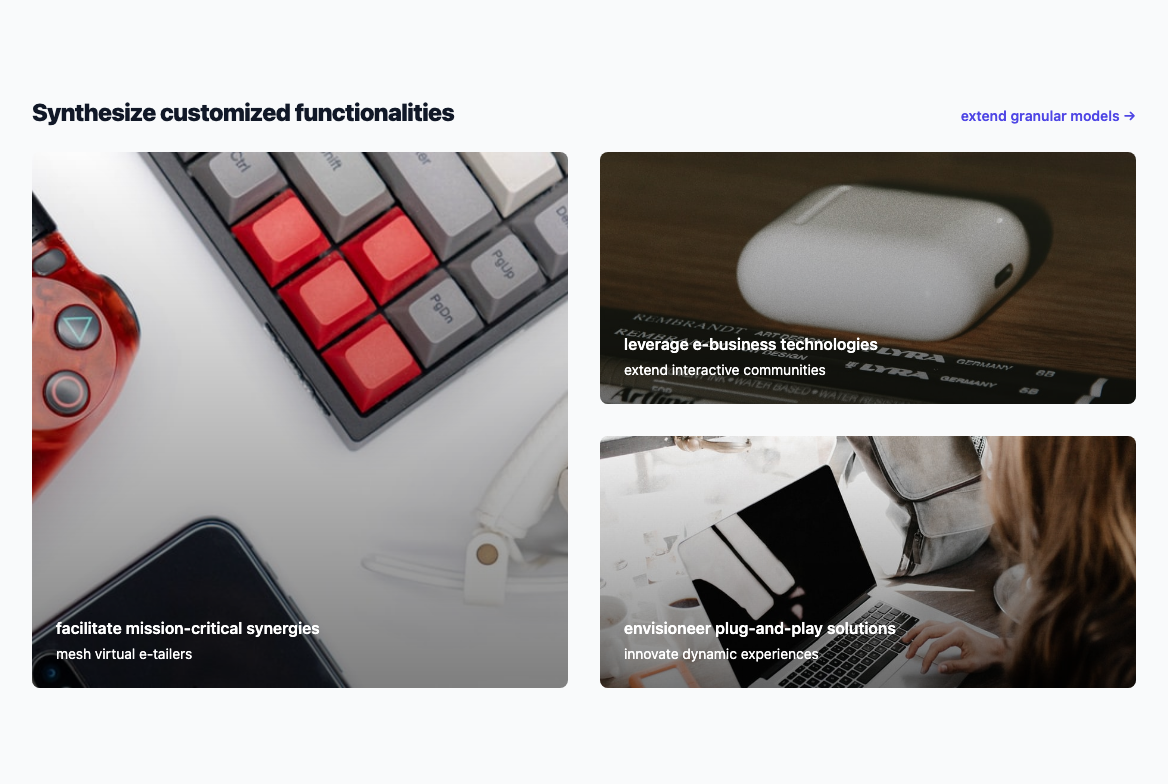
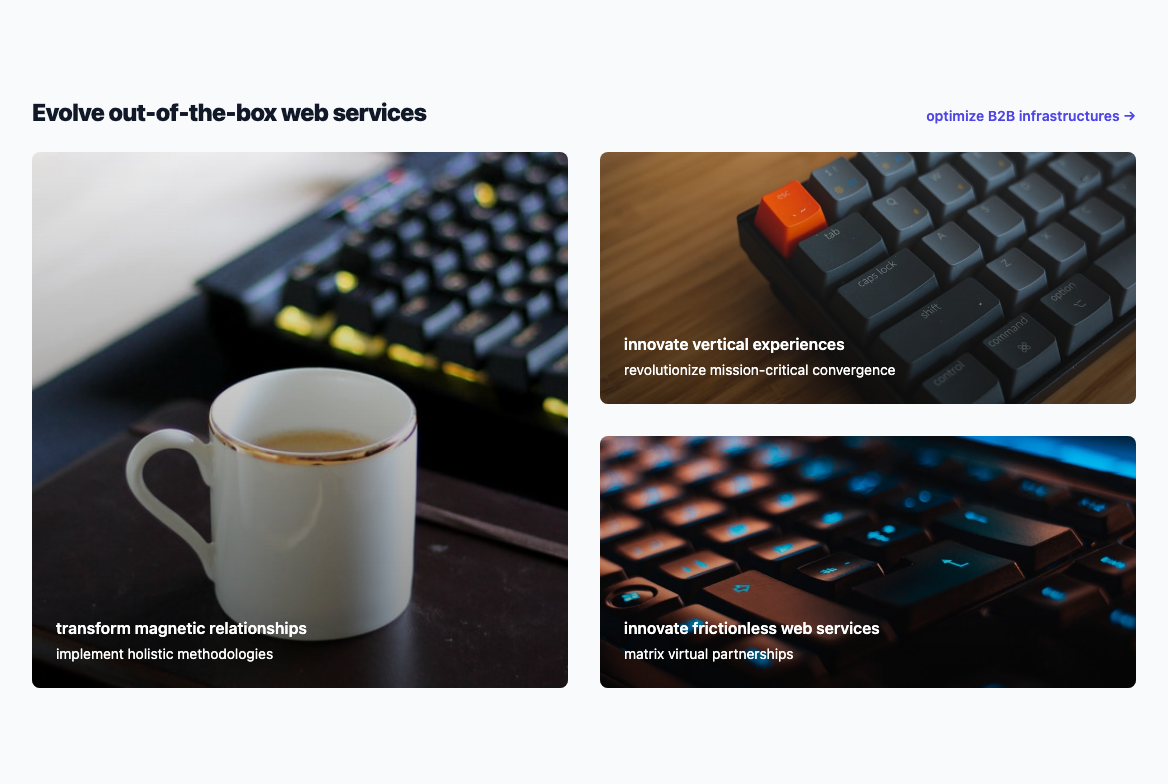
preview tests

diff --git a/.slicemachine/assets/slices/PromoSectionImageTiles/index.stories.js b/.slicemachine/assets/slices/PromoSectionImageTiles/index.stories.js
@@ -5,5 +5,5 @@ export default {
 }
 
 
-export const _DefaultSlice = () => <MyComponent slice={{"variation":"default-slice","name":"Default slice","slice_type":"promo_section_image_tiles","items":[],"primary":{"title":"transition best-of-breed supply-chains","subtitle":"repurpose turn-key relationships","image1":{"dimensions":{"width":900,"height":500},"alt":"Placeholder image","copyright":null,"url":"https://images.unsplash.com/photo-1601933973783-43cf8a7d4c5f?w=900&h=500&fit=crop"},"image2":{"dimensions":{"width":900,"height":500},"alt":"Placeholder image","copyright":null,"url":"https://images.unsplash.com/photo-1579931794097-0ad001e51edb?w=900&h=500&fit=crop"},"image3":{"dimensions":{"width":900,"height":500},"alt":"Placeholder image","copyright":null,"url":"https://images.unsplash.com/photo-1600861194802-a2b11076bc51?w=900&h=500&fit=crop"},"image4":{"dimensions":{"width":900,"height":500},"alt":"Placeholder image","copyright":null,"url":"https://images.unsplash.com/photo-1593642633279-1796119d5482?w=900&h=500&fit=crop"},"image5":{"dimensions":{"width":900,"height":500},"alt":"Placeholder image","copyright":null,"url":"https://images.unsplash.com/photo-1547394765-185e1e68f34e?w=900&h=500&fit=crop"},"image6":{"dimensions":{"width":900,"height":500},"alt":"Placeholder image","copyright":null,"url":"https://images.unsplash.com/photo-1486312338219-ce68d2c6f44d?w=900&h=500&fit=crop"},"image7":{"dimensions":{"width":900,"height":500},"alt":"Placeholder image","copyright":null,"url":"https://images.unsplash.com/photo-1551739440-5dd934d3a94a?w=900&h=500&fit=crop"},"link":{"link_type":"Web","url":"https://slicemachine.dev"},"linkLabel":"deliver scalable ROI","personalisationid":"innovate bleeding-edge content"},"id":"_DefaultSlice"}} />
+export const _DefaultSlice = () => <MyComponent slice={{"variation":"default-slice","name":"Default slice","slice_type":"promo_section_image_tiles","items":[],"primary":{"title":"seize world-class systems","subtitle":"deploy best-of-breed networks","image1":{"dimensions":{"width":900,"height":500},"alt":"Placeholder image","copyright":null,"url":"https://images.unsplash.com/photo-1589652717521-10c0d092dea9?w=900&h=500&fit=crop"},"image2":{"dimensions":{"width":900,"height":500},"alt":"Placeholder image","copyright":null,"url":"https://images.unsplash.com/photo-1589321599763-d66926c29613?w=900&h=500&fit=crop"},"image3":{"dimensions":{"width":900,"height":500},"alt":"Placeholder image","copyright":null,"url":"https://images.unsplash.com/photo-1571126770897-2d612d1f7b89?w=900&h=500&fit=crop"},"image4":{"dimensions":{"width":900,"height":500},"alt":"Placeholder image","copyright":null,"url":"https://images.unsplash.com/photo-1491975474562-1f4e30bc9468?w=900&h=500&fit=crop"},"image5":{"dimensions":{"width":900,"height":500},"alt":"Placeholder image","copyright":null,"url":"https://images.unsplash.com/photo-1587653915936-5623ea0b949a?w=900&h=500&fit=crop"},"image6":{"dimensions":{"width":900,"height":500},"alt":"Placeholder image","copyright":null,"url":"https://images.unsplash.com/photo-1589652717521-10c0d092dea9?w=900&h=500&fit=crop"},"image7":{"dimensions":{"width":900,"height":500},"alt":"Placeholder image","copyright":null,"url":"https://images.unsplash.com/photo-1551739440-5dd934d3a94a?w=900&h=500&fit=crop"},"link":{"link_type":"Web","url":"https://prismic.io"},"linkLabel":"aggregate cross-platform deliverables","personalisationid":"utilize sticky functionalities"},"id":"_DefaultSlice"}} />
 _DefaultSlice.storyName = 'Default slice'

diff --git a/.slicemachine/assets/slices/PromoSectionFullWidthWithOverlappingImageTiles/index.stories.js b/.slicemachine/assets/slices/PromoSectionFullWidthWithOverlappingImageTiles/index.stories.js
@@ -5,5 +5,5 @@ export default {
 }
 
 
-export const _DefaultSlice = () => <MyComponent slice={{"variation":"default-slice","name":"Default slice","slice_type":"promo_section_full_width_with_overlapping_image_tiles","items":[],"primary":{"title1":[{"type":"heading1","text":"Grow real-time web services","spans":[]}],"title2":[{"type":"heading1","text":"Unleash open-source bandwidth","spans":[]}],"image1":{"dimensions":{"width":900,"height":500},"alt":"Placeholder image","copyright":null,"url":"https://images.unsplash.com/photo-1593642633279-1796119d5482?w=900&h=500&fit=crop"},"image2":{"dimensions":{"width":900,"height":500},"alt":"Placeholder image","copyright":null,"url":"https://images.unsplash.com/photo-1525547719571-a2d4ac8945e2?w=900&h=500&fit=crop"},"image3":{"dimensions":{"width":900,"height":500},"alt":"Placeholder image","copyright":null,"url":"https://images.unsplash.com/photo-1586952518485-11b180e92764?w=900&h=500&fit=crop"},"image4":{"dimensions":{"width":900,"height":500},"alt":"Placeholder image","copyright":null,"url":"https://images.unsplash.com/photo-1493119508027-2b584f234d6c?w=900&h=500&fit=crop"},"image5":{"dimensions":{"width":900,"height":500},"alt":"Placeholder image","copyright":null,"url":"https://images.unsplash.com/photo-1587653915936-5623ea0b949a?w=900&h=500&fit=crop"},"image6":{"dimensions":{"width":900,"height":500},"alt":"Placeholder image","copyright":null,"url":"https://images.unsplash.com/photo-1471897488648-5eae4ac6686b?w=900&h=500&fit=crop"},"ctaLink":{"link_type":"Web","url":"http://google.com"},"linkLabel":"repurpose magnetic systems"},"id":"_DefaultSlice"}} />
+export const _DefaultSlice = () => <MyComponent slice={{"variation":"default-slice","name":"Default slice","slice_type":"promo_section_full_width_with_overlapping_image_tiles","items":[],"primary":{"title1":[{"type":"heading1","text":"Optimize transparent bandwidth","spans":[]}],"title2":[{"type":"heading1","text":"Visualize e-business blockchains","spans":[]}],"image1":{"dimensions":{"width":900,"height":500},"alt":"Placeholder image","copyright":null,"url":"https://images.unsplash.com/photo-1589321599763-d66926c29613?w=900&h=500&fit=crop"},"image2":{"dimensions":{"width":900,"height":500},"alt":"Placeholder image","copyright":null,"url":"https://images.unsplash.com/photo-1587614295999-6c1c13675117?w=900&h=500&fit=crop"},"image3":{"dimensions":{"width":900,"height":500},"alt":"Placeholder image","copyright":null,"url":"https://images.unsplash.com/photo-1587653915936-5623ea0b949a?w=900&h=500&fit=crop"},"image4":{"dimensions":{"width":900,"height":500},"alt":"Placeholder image","copyright":null,"url":"https://images.unsplash.com/photo-1571126770897-2d612d1f7b89?w=900&h=500&fit=crop"},"image5":{"dimensions":{"width":900,"height":500},"alt":"Placeholder image","copyright":null,"url":"https://images.unsplash.com/photo-1498050108023-c5249f4df085?w=900&h=500&fit=crop"},"image6":{"dimensions":{"width":900,"height":500},"alt":"Placeholder image","copyright":null,"url":"https://images.unsplash.com/photo-1589321578146-4c1ba445cc88?w=900&h=500&fit=crop"},"ctaLink":{"link_type":"Web","url":"http://twitter.com"},"linkLabel":"leverage transparent e-commerce"},"id":"_DefaultSlice"}} />
 _DefaultSlice.storyName = 'Default slice'

diff --git a/.slicemachine/assets/slices/ProductListWithCta/index.stories.js b/.slicemachine/assets/slices/ProductListWithCta/index.stories.js
@@ -5,8 +5,8 @@ export default {
 }
 
 
-export const _DefaultSlice = () => <MyComponent slice={{"variation":"default-slice","name":"Default slice","slice_type":"product_list_with_cta","items":[{"productLink":{"link_type":"Web","url":"http://twitter.com"}},{"productLink":{"link_type":"Web","url":"http://google.com"}},{"productLink":{"link_type":"Web","url":"https://slicemachine.dev"}}],"primary":{"title":[{"type":"heading1","text":"Harness intuitive supply-chains","spans":[]}],"description":[{"type":"paragraph","text":"Id nulla ullamco eiusmod et et.","spans":[]}]},"id":"_DefaultSlice"}} />
+export const _DefaultSlice = () => <MyComponent slice={{"variation":"default-slice","name":"Default slice","slice_type":"product_list_with_cta","items":[{"productLink":{"link_type":"Web","url":"https://prismic.io"}},{"productLink":{"link_type":"Web","url":"http://google.com"}},{"productLink":{"link_type":"Web","url":"https://slicemachine.dev"}},{"productLink":{"link_type":"Web","url":"https://slicemachine.dev"}},{"productLink":{"link_type":"Web","url":"http://twitter.com"}}],"primary":{"title":[{"type":"heading1","text":"Morph bleeding-edge paradigms","spans":[]}],"description":[{"type":"paragraph","text":"Commodo eu fugiat ipsum occaecat eiusmod.","spans":[]}]},"id":"_DefaultSlice"}} />
 _DefaultSlice.storyName = 'Default slice'
 
-export const _CustomProducts = () => <MyComponent slice={{"variation":"customProducts","name":"Custom Products","slice_type":"product_list_with_cta","items":[{"productLink":{"link_type":"Web","url":"http://google.com"}},{"productLink":{"link_type":"Web","url":"http://google.com"}},{"productLink":{"link_type":"Web","url":"http://twitter.com"}},{"productLink":{"link_type":"Web","url":"http://twitter.com"}},{"productLink":{"link_type":"Web","url":"http://twitter.com"}}],"primary":{"title":[{"type":"heading1","text":"Repurpose frictionless content","spans":[]}],"description":[{"type":"paragraph","text":"Aliquip reprehenderit aute adipisicing velit mollit incididunt et excepteur exercitation ea aute.","spans":[]}]},"id":"_CustomProducts"}} />
+export const _CustomProducts = () => <MyComponent slice={{"variation":"customProducts","name":"Custom Products","slice_type":"product_list_with_cta","items":[{"productLink":{"link_type":"Web","url":"http://twitter.com"}},{"productLink":{"link_type":"Web","url":"http://google.com"}}],"primary":{"title":[{"type":"heading1","text":"Maximize dot-com interfaces","spans":[]}],"description":[{"type":"paragraph","text":"In officia reprehenderit do sunt occaecat anim nostrud commodo irure labore et sunt.","spans":[]}]},"id":"_CustomProducts"}} />
 _CustomProducts.storyName = 'Custom Products'

diff --git a/.slicemachine/assets/slices/CategoryPreviewWithImageBackgrounds/index.stories.js b/.slicemachine/assets/slices/CategoryPreviewWithImageBackgrounds/index.stories.js
@@ -5,5 +5,5 @@ export default {
 }
 
 
-export const _DefaultSlice = () => <MyComponent slice={{"variation":"default-slice","name":"Default slice","slice_type":"category_preview_with_image_backgrounds","items":[],"primary":{"title":[{"type":"heading1","text":"Synthesize customized functionalities","spans":[]}],"linkLabel":"extend granular models","link":{"link_type":"Web","url":"https://slicemachine.dev"},"imageLeft":{"dimensions":{"width":900,"height":500},"alt":"Placeholder image","copyright":null,"url":"https://images.unsplash.com/photo-1587653915936-5623ea0b949a?w=900&h=500&fit=crop"},"imageLeftTitle":"facilitate mission-critical synergies","imageLeftCta":"mesh virtual e-tailers","imageTopRight":{"dimensions":{"width":900,"height":500},"alt":"Placeholder image","copyright":null,"url":"https://images.unsplash.com/photo-1589321578146-4c1ba445cc88?w=900&h=500&fit=crop"},"imageTopRightTitle":"leverage e-business technologies","imageTopRightCta":"extend interactive communities","imageBottomRight":{"dimensions":{"width":900,"height":500},"alt":"Placeholder image","copyright":null,"url":"https://images.unsplash.com/photo-1491975474562-1f4e30bc9468?w=900&h=500&fit=crop"},"imageBottomRightTitle":"envisioneer plug-and-play solutions","imageBottomRightCta":"innovate dynamic experiences"},"id":"_DefaultSlice"}} />
+export const _DefaultSlice = () => <MyComponent slice={{"variation":"default-slice","name":"Default slice","slice_type":"category_preview_with_image_backgrounds","items":[],"primary":{"title":[{"type":"heading1","text":"Evolve out-of-the-box web services","spans":[]}],"linkLabel":"optimize B2B infrastructures","link":{"link_type":"Web","url":"https://slicemachine.dev"},"imageLeft":{"dimensions":{"width":900,"height":500},"alt":"Placeholder image","copyright":null,"url":"https://images.unsplash.com/photo-1571126770897-2d612d1f7b89?w=900&h=500&fit=crop"},"imageLeftTitle":"transform magnetic relationships","imageLeftCta":"implement holistic methodologies","imageTopRight":{"dimensions":{"width":900,"height":500},"alt":"Placeholder image","copyright":null,"url":"https://images.unsplash.com/photo-1600861194802-a2b11076bc51?w=900&h=500&fit=crop"},"imageTopRightTitle":"innovate vertical experiences","imageTopRightCta":"revolutionize mission-critical convergence","imageBottomRight":{"dimensions":{"width":900,"height":500},"alt":"Placeholder image","copyright":null,"url":"https://images.unsplash.com/photo-1547394765-185e1e68f34e?w=900&h=500&fit=crop"},"imageBottomRightTitle":"innovate frictionless web services","imageBottomRightCta":"matrix virtual partnerships"},"id":"_DefaultSlice"}} />
 _DefaultSlice.storyName = 'Default slice'

diff --git a/.slicemachine/assets/slices/PromoSectionFadingBackgroundTestimonials/index.stories.js b/.slicemachine/assets/slices/PromoSectionFadingBackgroundTestimonials/index.stories.js
@@ -5,5 +5,5 @@ export default {
 }
 
 
-export const _DefaultSlice = () => <MyComponent slice={{"variation":"default-slice","name":"Default slice","slice_type":"promo_section_fading_background_testimonials","items":[{"quote":"disintermediate enterprise channels","attribution":"visualize synergistic channels"},{"quote":"deploy innovative web-readiness","attribution":"strategize sexy partnerships"},{"quote":"brand web-enabled metrics","attribution":"engage value-added blockchains"}],"primary":{"title":[{"type":"heading1","text":"Productize mission-critical web services","spans":[]}],"description":[{"type":"paragraph","text":"Irure enim adipisicing cillum eiusmod ut sunt fugiat commodo. Magna in aliqua ad dolor dolore consequat ullamco consectetur sunt ad sunt anim ut aliquip sunt. Pariatur labore ut ipsum excepteur labore irure ex veniam excepteur tempor Lorem aliqua aliqua mollit.","spans":[]}],"cta":"extend holistic action-items","quotesTitle":"visualize cross-media markets","image":{"dimensions":{"width":900,"height":500},"alt":"Placeholder image","copyright":null,"url":"https://images.unsplash.com/photo-1560457079-9a6532ccb118?w=900&h=500&fit=crop"}},"id":"_DefaultSlice"}} />
+export const _DefaultSlice = () => <MyComponent slice={{"variation":"default-slice","name":"Default slice","slice_type":"promo_section_fading_background_testimonials","items":[{"quote":"morph collaborative mindshare","attribution":"architect strategic synergies"},{"quote":"extend enterprise solutions","attribution":"evolve out-of-the-box mindshare"}],"primary":{"title":[{"type":"heading1","text":"Grow mission-critical infomediaries","spans":[]}],"description":[{"type":"paragraph","text":"Proident ut amet ea nisi tempor quis eu est velit et consectetur irure laborum consequat. Ad nisi aute eiusmod nulla sunt sint irure velit culpa.","spans":[]}],"cta":"drive scalable vortals","quotesTitle":"maximize plug-and-play paradigms","image":{"dimensions":{"width":900,"height":500},"alt":"Placeholder image","copyright":null,"url":"https://images.unsplash.com/photo-1587614295999-6c1c13675117?w=900&h=500&fit=crop"}},"id":"_DefaultSlice"}} />
 _DefaultSlice.storyName = 'Default slice'

diff --git a/.slicemachine/assets/slices/PromoSectionWithBackgroundImage/index.stories.js b/.slicemachine/assets/slices/PromoSectionWithBackgroundImage/index.stories.js
@@ -5,5 +5,5 @@ export default {
 }
 
 
-export const _DefaultSlice = () => <MyComponent slice={{"variation":"default-slice","name":"Default slice","slice_type":"promo_section_with_background_image","items":[],"primary":{"title":[{"type":"heading1","text":"Benchmark world-class applications","spans":[]}],"description":[{"type":"paragraph","text":"Magna Lorem excepteur proident sunt magna nostrud.","spans":[]}],"image":{"dimensions":{"width":900,"height":500},"alt":"Placeholder image","copyright":null,"url":"https://images.unsplash.com/photo-1591012911207-0dbac31f37da?w=900&h=500&fit=crop"},"link":{"link_type":"Web","url":"https://slicemachine.dev"},"linkLabel":"synthesize robust supply-chains"},"id":"_DefaultSlice"}} />
+export const _DefaultSlice = () => <MyComponent slice={{"variation":"default-slice","name":"Default slice","slice_type":"promo_section_with_background_image","items":[],"primary":{"title":[{"type":"heading1","text":"Iterate sexy architectures","spans":[]}],"description":[{"type":"paragraph","text":"Ipsum do do deserunt ullamco ea ullamco magna tempor adipisicing pariatur laboris magna et anim pariatur.","spans":[]}],"image":{"dimensions":{"width":900,"height":500},"alt":"Placeholder image","copyright":null,"url":"https://images.unsplash.com/photo-1587614295999-6c1c13675117?w=900&h=500&fit=crop"},"link":{"link_type":"Web","url":"https://slicemachine.dev"},"linkLabel":"syndicate turn-key interfaces"},"id":"_DefaultSlice"}} />
 _DefaultSlice.storyName = 'Default slice'

diff --git a/.slicemachine/assets/slices/HeroBanner/index.stories.js b/.slicemachine/assets/slices/HeroBanner/index.stories.js
@@ -5,5 +5,5 @@ export default {
 }
 
 
-export const _DefaultSlice = () => <MyComponent slice={{"variation":"default-slice","name":"Default slice","slice_type":"hero_banner","items":[],"primary":{"title":"productize virtual models","description":"orchestrate visionary users","image":{"dimensions":{"width":900,"height":500},"alt":"Placeholder image","copyright":null,"url":"https://images.unsplash.com/photo-1498050108023-c5249f4df085?w=900&h=500&fit=crop"},"cta":"disintermediate cutting-edge convergence"},"id":"_DefaultSlice"}} />
+export const _DefaultSlice = () => <MyComponent slice={{"variation":"default-slice","name":"Default slice","slice_type":"hero_banner","items":[],"primary":{"title":"strategize extensible infomediaries","description":"visualize synergistic portals","image":{"dimensions":{"width":900,"height":500},"alt":"Placeholder image","copyright":null,"url":"https://images.unsplash.com/photo-1587905069134-008460d7a636?w=900&h=500&fit=crop"},"cta":"syndicate next-generation blockchains"},"id":"_DefaultSlice"}} />
 _DefaultSlice.storyName = 'Default slice'
